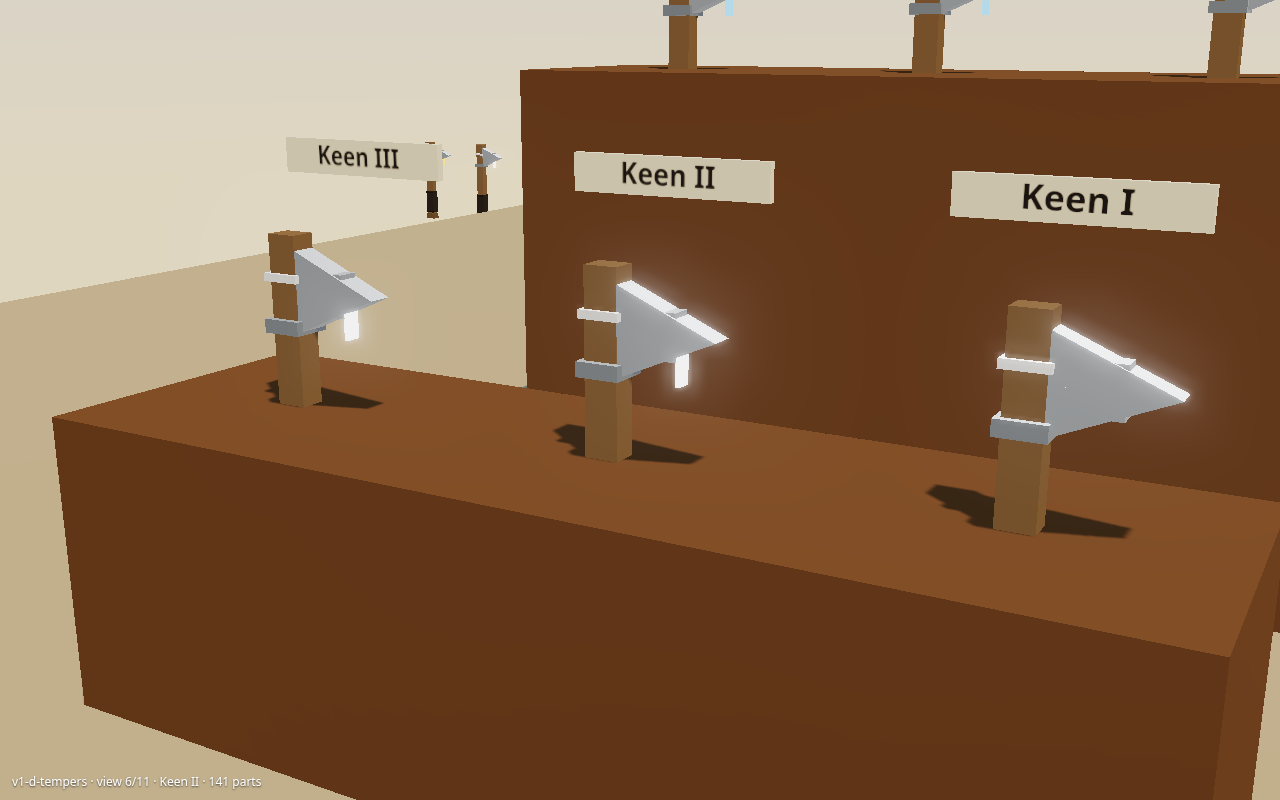
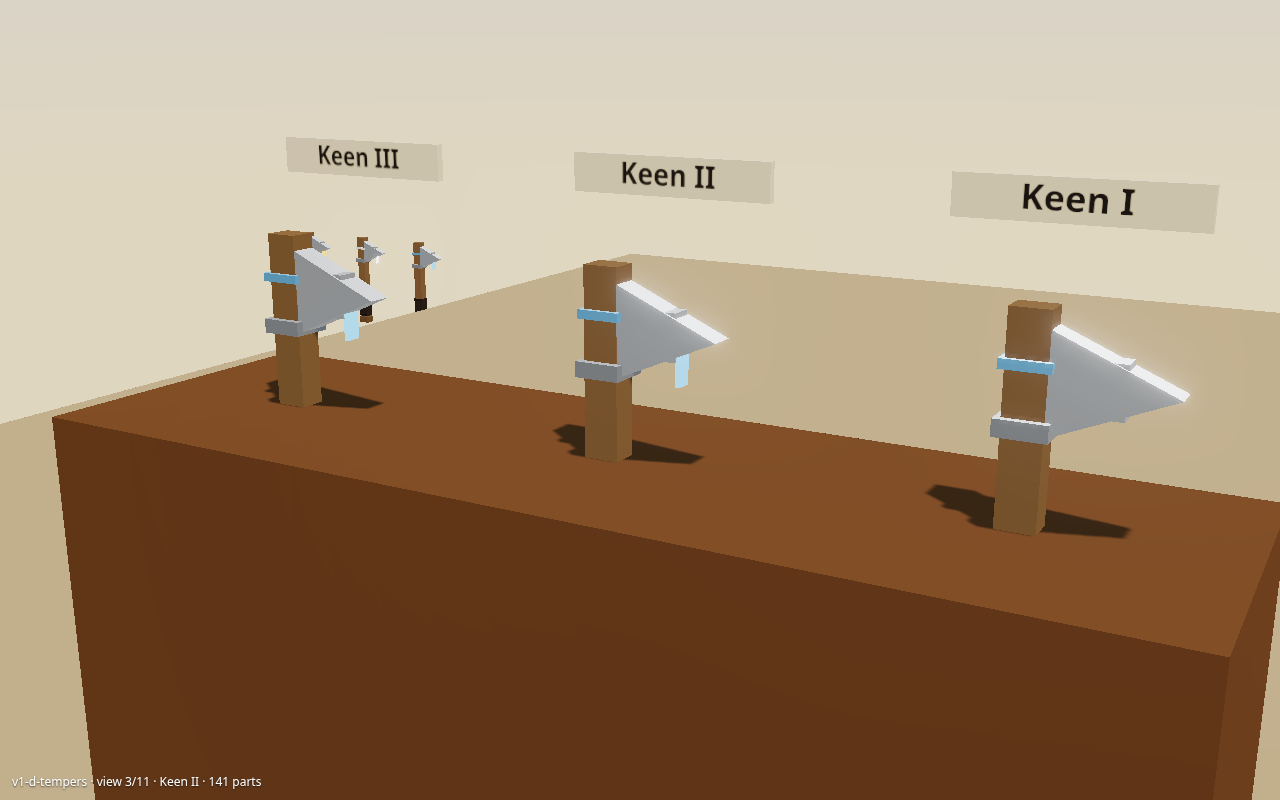
phase-2: match temper colours to Keen, Heavy and Prosperous

diff --git a/STATUS.md b/STATUS.md
@@ -27,14 +27,14 @@ The lane is done on this branch. Axes, temper colours, the stepped shelf unit, w
 - `previews/v1-d/axe-starfall.png`
 - `previews/v1-d/axe-lux.png`
 - `previews/v1-d/axe-hermits-maul.png`
-- `previews/v1-d/tempers-lineup.png` — Swift, Keen and Prosperous, tiers 1 to 3, on a Steel Axe.
+- `previews/v1-d/tempers-lineup.png` — Keen (speed, sky blue wind), Heavy (damage, white sheen) and Prosperous (coin gold), tiers 1 to 3, on a Steel Axe.
 - `previews/v1-d/tempers-tier-3.png` — the three families at tier 3, close, so the band and the edge read.
-- `previews/v1-d/temper-swift-1.png`
-- `previews/v1-d/temper-swift-2.png`
-- `previews/v1-d/temper-swift-3.png`
 - `previews/v1-d/temper-keen-1.png`
 - `previews/v1-d/temper-keen-2.png`
 - `previews/v1-d/temper-keen-3.png`
+- `previews/v1-d/temper-heavy-1.png`
+- `previews/v1-d/temper-heavy-2.png`
+- `previews/v1-d/temper-heavy-3.png`
 - `previews/v1-d/temper-prosperous-1.png`
 - `previews/v1-d/temper-prosperous-2.png`
 - `previews/v1-d/temper-prosperous-3.png`

diff --git a/PHASE2_NOTES.md b/PHASE2_NOTES.md
@@ -10,7 +10,7 @@ Axes (part-built; uploaded meshes still replace them when they load):
 2. Phone emulator. The same equip, swing and drop. Drop is a long press on the hotbar. No new button, and nothing sits on the thumbstick or the jump button.
 3. Xbox. Swing on RT. Drop is B, twice, with the toast. B still closes a menu instead of dropping. No control is bound to ButtonR2 for good.
 
-Tempers are look-only (`AxeArt.ApplyTemper`). Nothing in the game calls that yet, so Studio will not show Swift, Keen or Prosperous until lane A2 wires it. The pictures are `previews/v1-d/temper-*.png`. Stats do not move.
+Tempers are look-only (`AxeArt.ApplyTemper`). Nothing in the game calls that yet, so Studio will not show Keen, Heavy or Prosperous until lane A2 wires it. Keen is the speed temper (sky blue wind). Heavy is the damage temper (a white edge sheen). Prosperous stays coin gold. The pictures are `previews/v1-d/temper-*.png`. Stats do not move.
 
 Boxes (the window crate; shell stays at 9 parts, a full box at 42):
 
